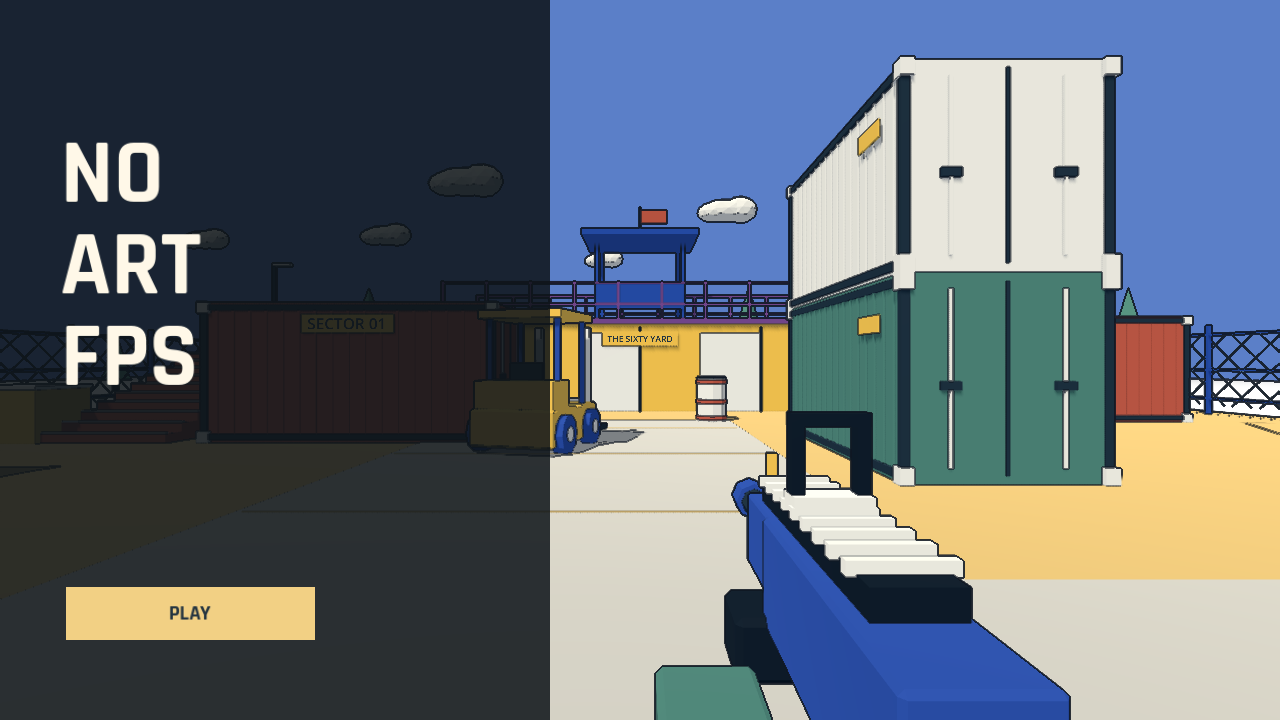
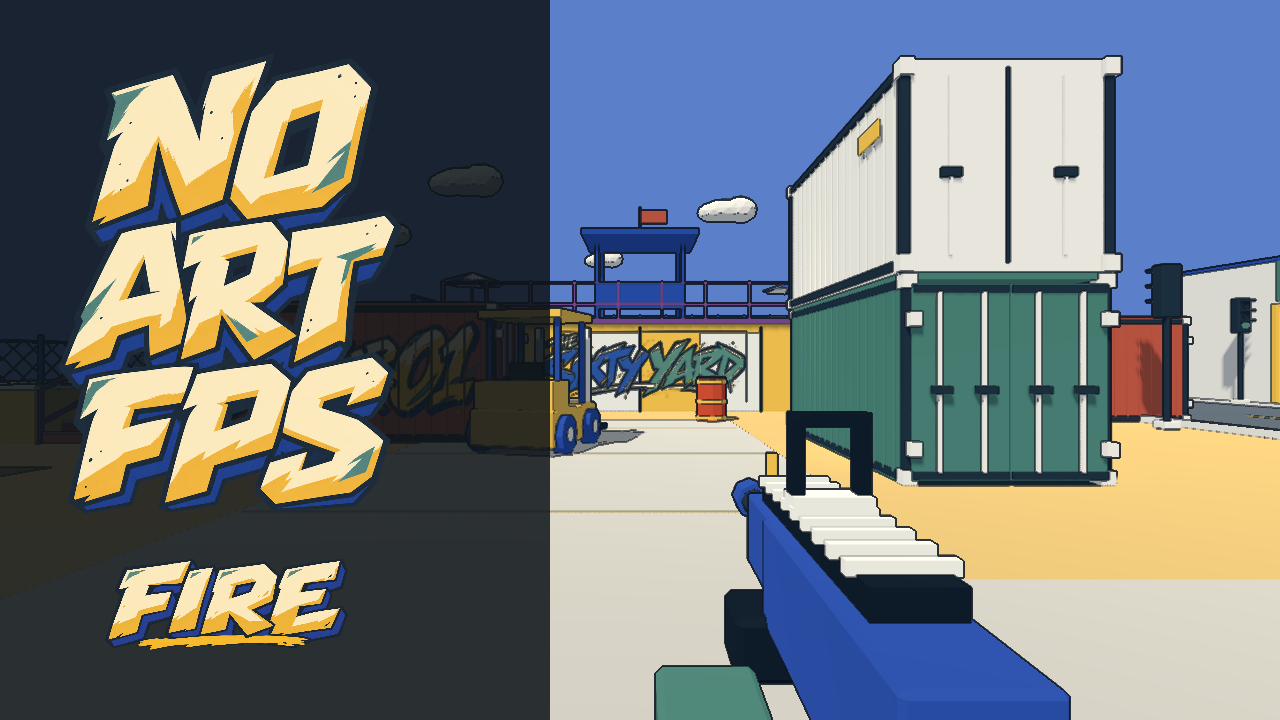
Style stacked title and FIRE button with original imagegen art

diff --git a/assets/ui/title/README.md b/assets/ui/title/README.md
@@ -1,0 +1,15 @@
+# Title and FIRE artwork
+
+Generated with the built-in imagegen tool on 2026-11-06. Original transparent PNGs are preserved unchanged. The title reads NO / ART / FPS on three lines; FIRE is a real TextureButton with hover, press and keyboard-focus feedback. These are raster artwork, not runtime font labels.
+
+## no-art-fps.png prompt
+
+Use case: stylized-concept. Asset type: production game title logo, isolated on genuine transparent alpha. Exact lettering on EXACTLY THREE STACKED LINES, in this order:
+NO
+ART
+FPS
+Make a single cohesive tall emblem, all three lines equal width with tight but clearly separated stacking. Bold custom hand-painted angular block letters, playful forward lean, chunky faceted highlights, lively cut corners, subtle spray paint nicks and tiny sparse paint specks. Letter faces warm cream #FFF1CB with golden yellow #E9BA50 lower facets, compact deep cobalt #304F9D hard shadows and charcoal #243440 outline, a few muted teal #548876 accents. This is for a bright low-poly comic FPS with cobalt rifle, cream/gold world and graffiti on buildings. Highly legible from a distance, premium stylized game identity. NO extra text, punctuation, taglines, skulls, weapons, logos, plaques, frames or rectangular background. Only NO then ART then FPS, each on its own horizontal line. Flat painted graphic with shallow hard graphic shadow, no glossy 3D render or realistic material. Portrait canvas roughly 3:4, artwork fills it with small transparent margins, no clipped strokes. True transparent holes and background.
+
+## fire.png prompt
+
+Use case: stylized-concept. Asset type: production transparent FIRE menu button artwork for the same bright low-poly comic FPS as the stacked NO / ART / FPS logo. Exact text: "FIRE", one single word, uppercase, fully legible. Design matching custom chunky angular hand-painted block lettering with a confident forward lean, warm cream #FFF1CB faces and golden yellow #E9BA50 lower facets, compact deep cobalt #304F9D hard graphic shadow and charcoal #243440 outline, tiny muted teal #548876 cut highlights. Strong broad silhouette, a short thick golden paint slash under the word to feel tactile and clickable; ample visual weight to be a primary game-start button. Keep it sparse and readable at small sizes, a few subtle paint nicks only. Wide landscape composition roughly 2.8:1 including all strokes with a little transparent padding. Isolated paint lettering, no button panel, no surrounding rectangle, no border frame, no realistic rendering, no background, no gun or other objects, no extra text or symbols. Use genuine alpha transparency in all empty space. Match three-line title aesthetic: simple bold faceted lettering with shallow blue hard shadow, not thin script.
